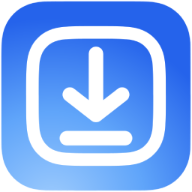
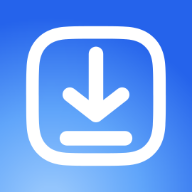
Add files via upload

diff --git a/public/index.html b/public/index.html
@@ -14,7 +14,12 @@
 
   <link rel="icon" type="image/x-icon" href="favicon.ico">
   <link rel="icon" type="image/png" sizes="256x256" href="logo.png">
-  <link rel="apple-touch-icon" sizes="180x180" href="logo.png">
+  <link rel="apple-touch-icon" sizes="180x180" href="apple-touch-icon-light.png">
+  <link rel="apple-touch-icon" sizes="180x180" media="(prefers-color-scheme: dark)" href="apple-touch-icon-dark.png">
+  <meta name="mobile-web-app-capable" content="yes">
+  <meta name="apple-mobile-web-app-capable" content="yes">
+  <meta name="apple-mobile-web-app-title" content="Instadrop">
+  <meta name="apple-mobile-web-app-status-bar-style" content="black-translucent">
   <link rel="manifest" href="manifest.webmanifest">
 
   <meta property="og:type" content="website">

diff --git a/public/sw.js b/public/sw.js
@@ -1,7 +1,7 @@
 /* Instadrop service worker — enables "Add to Home Screen" install + offline cache.
    Bump CACHE on every release so browsers fetch fresh files after a deploy. */
-var CACHE = "instadrop-v2";
-var CORE = ["/", "/index.html", "/styles.css", "/script.js", "/favicon.ico", "/logo.png", "/brand.png", "/manifest.webmanifest"];
+var CACHE = "instadrop-v3";
+var CORE = ["/", "/index.html", "/styles.css", "/script.js", "/favicon.ico", "/logo.png", "/brand.png", "/manifest.webmanifest", "/apple-touch-icon-light.png", "/apple-touch-icon-dark.png"];
 
 self.addEventListener("install", function (e) {
   e.waitUntil(
